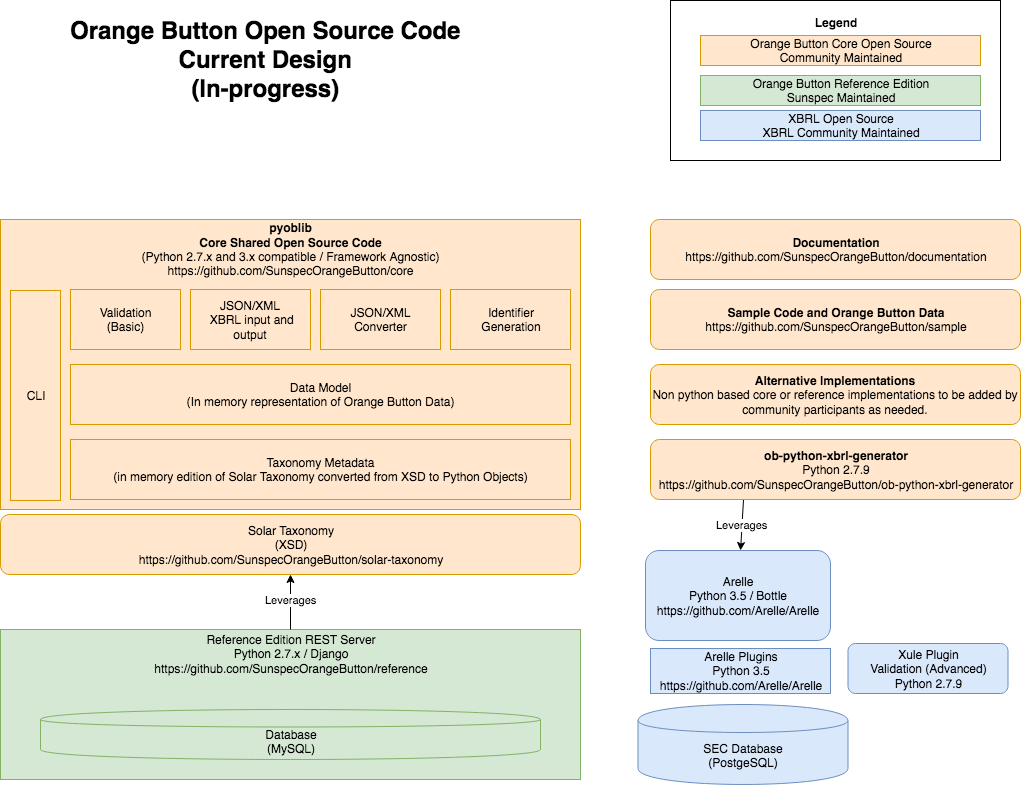
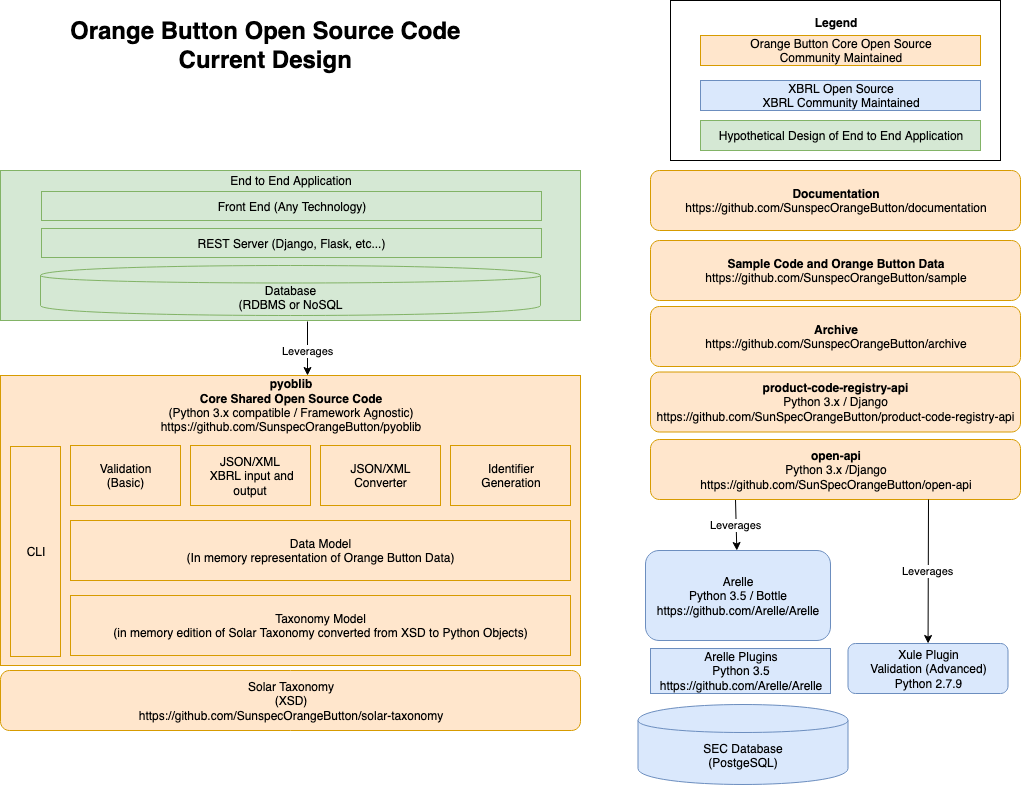
Documentation and diagram updates

diff --git a/README.md b/README.md
@@ -4,26 +4,38 @@
 
 **Three types of code are available:**
 
-1. Orange Button Core Open Source is maintained by the Orange Button Open Source community.  It includes Apache 2.0 licensed libraries.  The libraries are written in Python and compatible with both Python 2.7.x and 3.x implementations.  The main code library - pyoblib - includes an in memory data model, in memory meta-data about the solar taxonomy, and common tools (XML/JSON input output, conversion, vaidation, identifier generation, etc...).  Pyoblib intentionally does not include an on disk database (due to the large discrepancy on implementation intentions) although it may at a later date.  The core libraries should leverage the Python standard library to the extent possible to minimize required dependencies.  The Solar Taxonomy itself (an XSD based specification) is also published in the core shared area.  Python Programs may also be included outside of the core libaries and the programs may be compatible with any python implementation.  There is also an option to develop alternative implementations in other programming languages although no other implementation currently exists.
-2. Orange Button Reference edition is an end to end working REST server programmed in Python using the Django framework running on a MySQL database.  The reference edition is primarily built and operated by SunSpec Alliance.  The reference edition is neither fully tested or intended for production usage and can be thought of as an example program.  Unlike the community maintained portion of the source code the reference edition is not necessarily intended to be generic.
-3. XBRL Open Source code may be leveraged on an as needed basis.  XBRL code is maintained outside of the Orange Button GitHub environment and is a partner open source community.  More information on XBRL is available at [XBRL](https://www.xbrl.org/) and [Arelle](http://arelle.org/).
+1. Orange Button Core Open Source is maintained by the Orange Button Open Source community.  It includes Apache 2.0 licensed libraries.  The projets are written in Python 3.x.  The main code library - pyoblib - includes an in memory data model, in memory meta-data about the solar taxonomy, and common tools (XML/JSON input output, conversion, vaidation, identifier generation, etc...).  Pyoblib intentionally does not include an on disk database (due to the large discrepancy on implementation intentions) although it may at a later date.  The core libraries should leverage the Python standard library to the extent possible to minimize required dependencies.  The Solar Taxonomy itself (an XSD based specification) is also published in the core shared area.  Python Programs may also be included outside of the core libaries and the programs may be compatible with any python implementation.
+2. XBRL Open Source code may be leveraged on an as needed basis.  XBRL code is maintained outside of the Orange Button GitHub environment and is a partner open source community.  More information on XBRL is available at [XBRL](https://www.xbrl.org/) and [Arelle](http://arelle.org/).
+3. A hypothetical design for an end to end program exists leveraging the open source libraries.  At this point in time no end to end edition exists although at least one of the sample programs could be leveraged.
 
 **Currently only a portion of the source code is available.  The status of the various components follows:**
 
+- pyoblib: Available (v 1.0.0)
+- Solar Taxonomy: Available (v 1.3)
 - Documentation: Available
-- Solar Taxonomy: Available (XSD format is in GitHub and Yeti supplies a user interface)
-- ob-python-xbrl-generator: Available
-- Sample Code Orange Button Data: A handful of small sample programs have been built.  Sample Data is Available for Monthly Operating Reports only
-- Pyoblib (Core Shared Open Source Code): In development - available on GitHub
-- Reference Edition: In development - not yet available on GitHub
+- Sample Code / Orange Button Data: Available (more is needed)
+- Product Code Registry: Available
+- Archive: Available
+    - ob-python-xbrl-generator: Archived
+- Open API (Conceptual edition is built, format is not ratified)
 - Arelle: Available
 - Arelle Plugins: Available
 - Xule: Available
 - SEC Database upon request (not on GitHub)
+- Other (not diagramed):
+    - Clabot (Available)
+    
+##Solar Taxonomy, Arelle, and Yeti:
 
-**Solar Taxonomy and Yeti:**
+The official data specification for Orange Button is encompassed in the various XSD files in the solar-taxonomy GITHub repository.  However this is not easy to read or digest.  Thus it is better to use one of these tools:
 
-The official data specification for Orange Button is encompassed in the various XSD files in the solar-taxonomy GITHub repository.  However this is not easy to read or digest.  Thus it is better to use the Yeti Review tool available at [yeti](https://yeti1.corefiling.com/) for a human readable version.  A PDF based guide is also available at [guide](https://sunspec.org/wp-content/uploads/2017/10/OrangeButtonTaxonomyGuideMay2018.pdf).
+- Arelle (v.1.3) - instructions below
+- Yeti Review tool (v1.2) available at [yeti](https://yeti1.corefiling.com/) 
+- A PDF based guide is also available at [guide](https://sunspec.org/wp-content/uploads/2017/10/OrangeButtonTaxonomyGuideMay2018.pdf).
+
+**Arelle Instructions**
+
+The desktop edition of Arelle can be downloaded (see useful links section below).  Alternatively contact [Jessie Deot](mailto:jessie@sunspec.org) to receive access to a hosted edition of Arelle.
 
 ## Getting started
 
